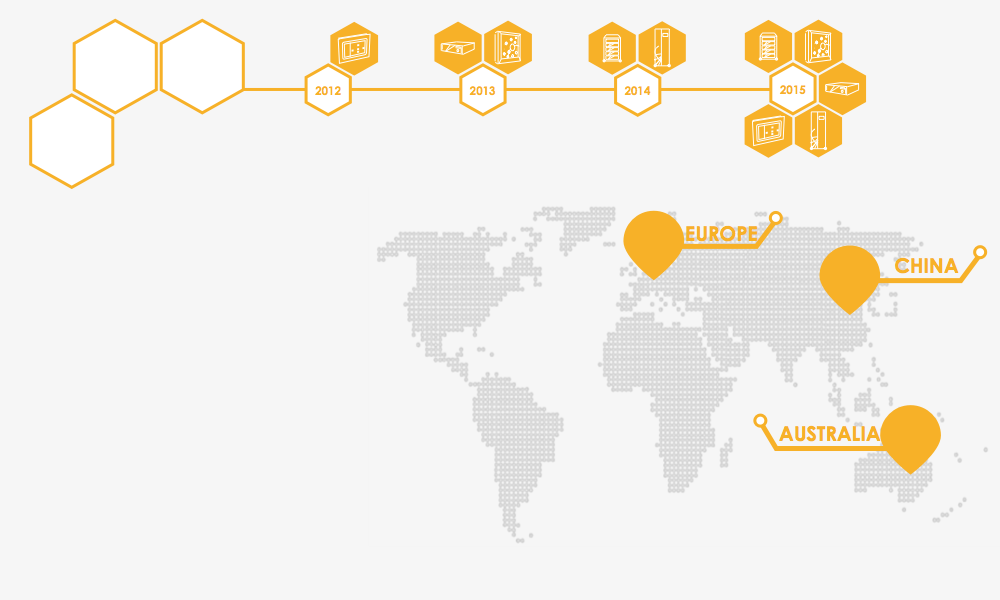
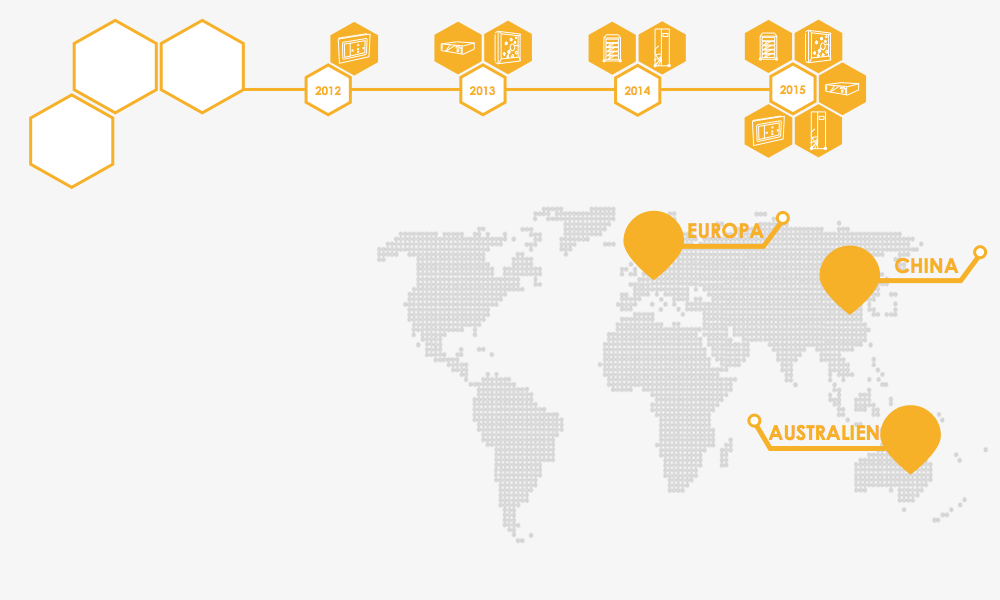
update navi

Changed region(s): [[0.744, 0.69, 0.899, 0.75], [0.682, 0.36, 0.806, 0.42]]

diff --git a/partner.html b/partner.html
@@ -43,10 +43,10 @@
         <ul class="menu-all">
             <a class="logo" href="index.html"></a>
             <li class="menu-button"><a href="index.html">Home</a></li>
-            <li class="menu-button"><a href="about.html">About Us</a></li>
-            <li class="menu-button"><a href="product.html">Products</a></li>
+            <li class="menu-button"><a href="about.html">Unternehmen</a></li>
+            <li class="menu-button"><a href="product.html">Produkte</a></li>
             <li class="menu-button"><a href="newslist.html">News</a></li>
-            <li class="menu-button"><a href="career.html">Career</a></li>
+            <li class="menu-button"><a href="career.html">Karriere</a></li>
         </ul>
     </div>
     <div class="global">
@@ -71,14 +71,14 @@
         <div class="bread">
             <a class="bread-node bread-1" href="index.html">Home</a>
             <span class="arrow"> > </span>
-            <a class="bread-node bread-2">About Us</a>
+            <a class="bread-node bread-2">Unternehmen</a>
             <span class="arrow"> > </span>
-            <a class="bread-node bread-3">Cooperation Partner</a>
+            <a class="bread-node bread-3">Kooperationspartner</a>
 
             <div class="about-list">
                 <ul>
-                    <li><a href="company.html">Company Introduction</a> </li>
-                    <li><a href="partner.html">Cooperation Partner</a> </li>
+                    <li><a href="company.html">Das Unternehmen Einleitung</a> </li>
+                    <li><a href="partner.html">Kooperationspartner</a> </li>
                 </ul>
             </div>
         </div>

diff --git a/company.html b/company.html
@@ -51,10 +51,10 @@
         <ul class="menu-all">
             <a class="logo" href="index.html"></a>
             <li class="menu-button"><a href="index.html">Home</a></li>
-            <li class="menu-button"><a href="about.html">About Us</a></li>
-            <li class="menu-button"><a href="product.html">Products</a></li>
+            <li class="menu-button"><a href="about.html">Unternehmen</a></li>
+            <li class="menu-button"><a href="product.html">Produkte</a></li>
             <li class="menu-button"><a href="newslist.html">News</a></li>
-            <li class="menu-button"><a href="career.html">Career</a></li>
+            <li class="menu-button"><a href="career.html">Karriere</a></li>
         </ul>
     </div>
     <div class="global">
@@ -79,7 +79,7 @@
         <div class="bread">
             <a class="bread-node bread-1" href="index.html">Home</a>
             <span class="arrow"> > </span>
-            <a class="bread-node bread-2">About Us</a>
+            <a class="bread-node bread-2">Unternehmen</a>
             <span class="arrow"> > </span>
             <a class="bread-node bread-3">Das Unternehmen Einleitung</a>
 

diff --git a/product.html b/product.html
@@ -635,10 +635,10 @@
             <ul class="menu-all">
                 <a class="logo" href="index.html"></a>
                 <li class="menu-button"><a href="index.html">Home</a></li>
-                <li class="menu-button"><a href="about.html">About Us</a></li>
-                <li class="menu-button"><a href="product.html">Products</a></li>
+                <li class="menu-button"><a href="about.html">Unternehmen</a></li>
+                <li class="menu-button"><a href="product.html">Produkte</a></li>
                 <li class="menu-button"><a href="newslist.html">News</a></li>
-                <li class="menu-button"><a href="career.html">Career</a></li>
+                <li class="menu-button"><a href="career.html">Karriere</a></li>
             </ul>
         </div>
         <div class="global">

diff --git a/career.html b/career.html
@@ -51,10 +51,10 @@
             <ul class="menu-all">
                 <a class="logo" href="index.html"></a>
                 <li class="menu-button"><a href="index.html">Home</a></li>
-                <li class="menu-button"><a href="about.html">About Us</a></li>
-                <li class="menu-button"><a href="product.html">Products</a></li>
+                <li class="menu-button"><a href="about.html">Unternehmen</a></li>
+                <li class="menu-button"><a href="product.html">Produkte</a></li>
                 <li class="menu-button"><a href="newslist.html">News</a></li>
-                <li class="menu-button"><a href="career.html">Career</a></li>
+                <li class="menu-button"><a href="career.html">Karriere</a></li>
             </ul>
         </div>
         <div class="global">

diff --git a/news10.html b/news10.html
@@ -43,10 +43,10 @@
             <ul class="menu-all">
                 <a class="logo" href="index.html"></a>
                 <li class="menu-button"><a href="index.html">Home</a></li>
-                <li class="menu-button"><a href="about.html">About Us</a></li>
-                <li class="menu-button"><a href="product.html">Products</a></li>
+                <li class="menu-button"><a href="about.html">Unternehmen</a></li>
+                <li class="menu-button"><a href="product.html">Produkte</a></li>
                 <li class="menu-button"><a href="newslist.html">News</a></li>
-                <li class="menu-button"><a href="career.html">Career</a></li>
+                <li class="menu-button"><a href="career.html">Karriere</a></li>
             </ul>
         </div>
         <div class="global">

diff --git a/news6.html b/news6.html
@@ -43,10 +43,10 @@
             <ul class="menu-all">
                 <a class="logo" href="index.html"></a>
                 <li class="menu-button"><a href="index.html">Home</a></li>
-                <li class="menu-button"><a href="about.html">About Us</a></li>
-                <li class="menu-button"><a href="product.html">Products</a></li>
+                <li class="menu-button"><a href="about.html">Unternehmen</a></li>
+                <li class="menu-button"><a href="product.html">Produkte</a></li>
                 <li class="menu-button"><a href="newslist.html">News</a></li>
-                <li class="menu-button"><a href="career.html">Career</a></li>
+                <li class="menu-button"><a href="career.html">Karriere</a></li>
             </ul>
         </div>
         <div class="global">

diff --git a/news7.html b/news7.html
@@ -43,10 +43,10 @@
             <ul class="menu-all">
                 <a class="logo" href="index.html"></a>
                 <li class="menu-button"><a href="index.html">Home</a></li>
-                <li class="menu-button"><a href="about.html">About Us</a></li>
-                <li class="menu-button"><a href="product.html">Products</a></li>
+                <li class="menu-button"><a href="about.html">Unternehmen</a></li>
+                <li class="menu-button"><a href="product.html">Produkte</a></li>
                 <li class="menu-button"><a href="newslist.html">News</a></li>
-                <li class="menu-button"><a href="career.html">Career</a></li>
+                <li class="menu-button"><a href="career.html">Karriere</a></li>
             </ul>
         </div>
         <div class="global">

diff --git a/news8.html b/news8.html
@@ -43,10 +43,10 @@
             <ul class="menu-all">
                 <a class="logo" href="index.html"></a>
                 <li class="menu-button"><a href="index.html">Home</a></li>
-                <li class="menu-button"><a href="about.html">About Us</a></li>
-                <li class="menu-button"><a href="product.html">Products</a></li>
+                <li class="menu-button"><a href="about.html">Unternehmen</a></li>
+                <li class="menu-button"><a href="product.html">Produkte</a></li>
                 <li class="menu-button"><a href="newslist.html">News</a></li>
-                <li class="menu-button"><a href="career.html">Career</a></li>
+                <li class="menu-button"><a href="career.html">Karriere</a></li>
             </ul>
         </div>
         <div class="global">

diff --git a/news9.html b/news9.html
@@ -43,10 +43,10 @@
             <ul class="menu-all">
                 <a class="logo" href="index.html"></a>
                 <li class="menu-button"><a href="index.html">Home</a></li>
-                <li class="menu-button"><a href="about.html">About Us</a></li>
-                <li class="menu-button"><a href="product.html">Products</a></li>
+                <li class="menu-button"><a href="about.html">Unternehmen</a></li>
+                <li class="menu-button"><a href="product.html">Produkte</a></li>
                 <li class="menu-button"><a href="newslist.html">News</a></li>
-                <li class="menu-button"><a href="career.html">Career</a></li>
+                <li class="menu-button"><a href="career.html">Karriere</a></li>
             </ul>
         </div>
         <div class="global">

diff --git a/about.html b/about.html
@@ -51,10 +51,10 @@
         <ul class="menu-all">
             <a class="logo" href="index.html"></a>
             <li class="menu-button"><a href="index.html">Home</a></li>
-            <li class="menu-button"><a href="company.html">About Us</a></li>
-            <li class="menu-button"><a href="product.html">Products</a></li>
+            <li class="menu-button"><a href="about.html">Unternehmen</a></li>
+            <li class="menu-button"><a href="product.html">Produkte</a></li>
             <li class="menu-button"><a href="newslist.html">News</a></li>
-            <li class="menu-button"><a href="career.html">Career</a></li>
+            <li class="menu-button"><a href="career.html">Karriere</a></li>
         </ul>
     </div>
     <div class="global">

diff --git a/download1.html b/download1.html
@@ -43,10 +43,10 @@
         <ul class="menu-all">
             <a class="logo" href="index.html"></a>
             <li class="menu-button"><a href="index.html">Home</a></li>
-            <li class="menu-button"><a href="about.html">About Us</a></li>
-            <li class="menu-button"><a href="product.html">Products</a></li>
+            <li class="menu-button"><a href="about.html">Unternehmen</a></li>
+            <li class="menu-button"><a href="product.html">Produkte</a></li>
             <li class="menu-button"><a href="newslist.html">News</a></li>
-            <li class="menu-button"><a href="career.html">Career</a></li>
+            <li class="menu-button"><a href="career.html">Karriere</a></li>
         </ul>
     </div>
     <div class="global">

diff --git a/download2.html b/download2.html
@@ -43,10 +43,10 @@
         <ul class="menu-all">
             <a class="logo" href="index.html"></a>
             <li class="menu-button"><a href="index.html">Home</a></li>
-            <li class="menu-button"><a href="about.html">About Us</a></li>
-            <li class="menu-button"><a href="product.html">Products</a></li>
+            <li class="menu-button"><a href="about.html">Unternehmen</a></li>
+            <li class="menu-button"><a href="product.html">Produkte</a></li>
             <li class="menu-button"><a href="newslist.html">News</a></li>
-            <li class="menu-button"><a href="career.html">Career</a></li>
+            <li class="menu-button"><a href="career.html">Karriere</a></li>
         </ul>
     </div>
     <div class="global">
